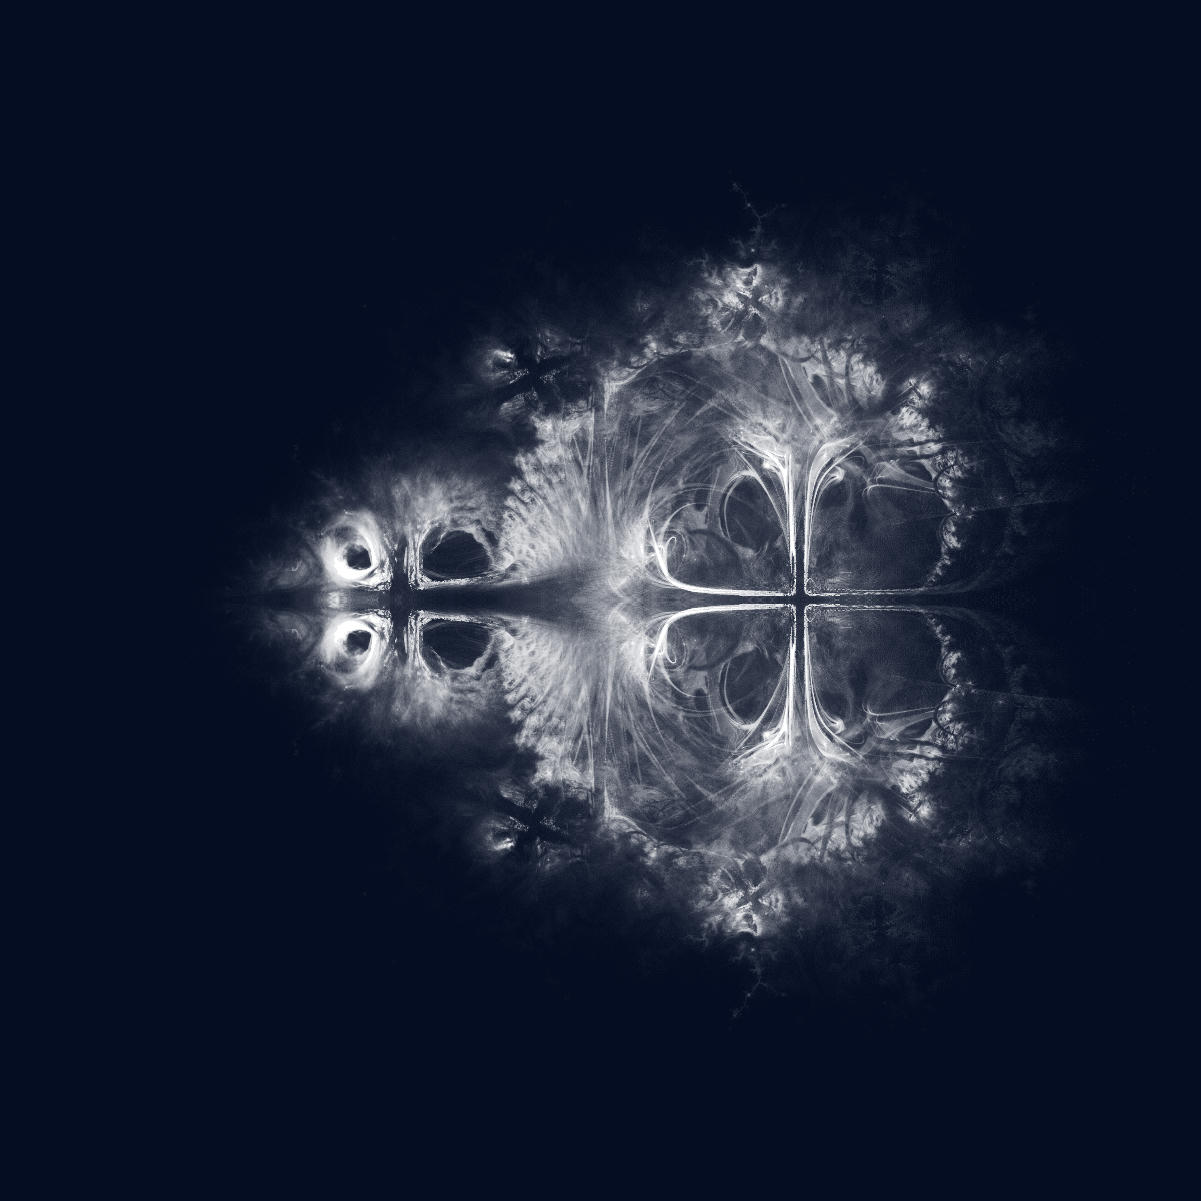
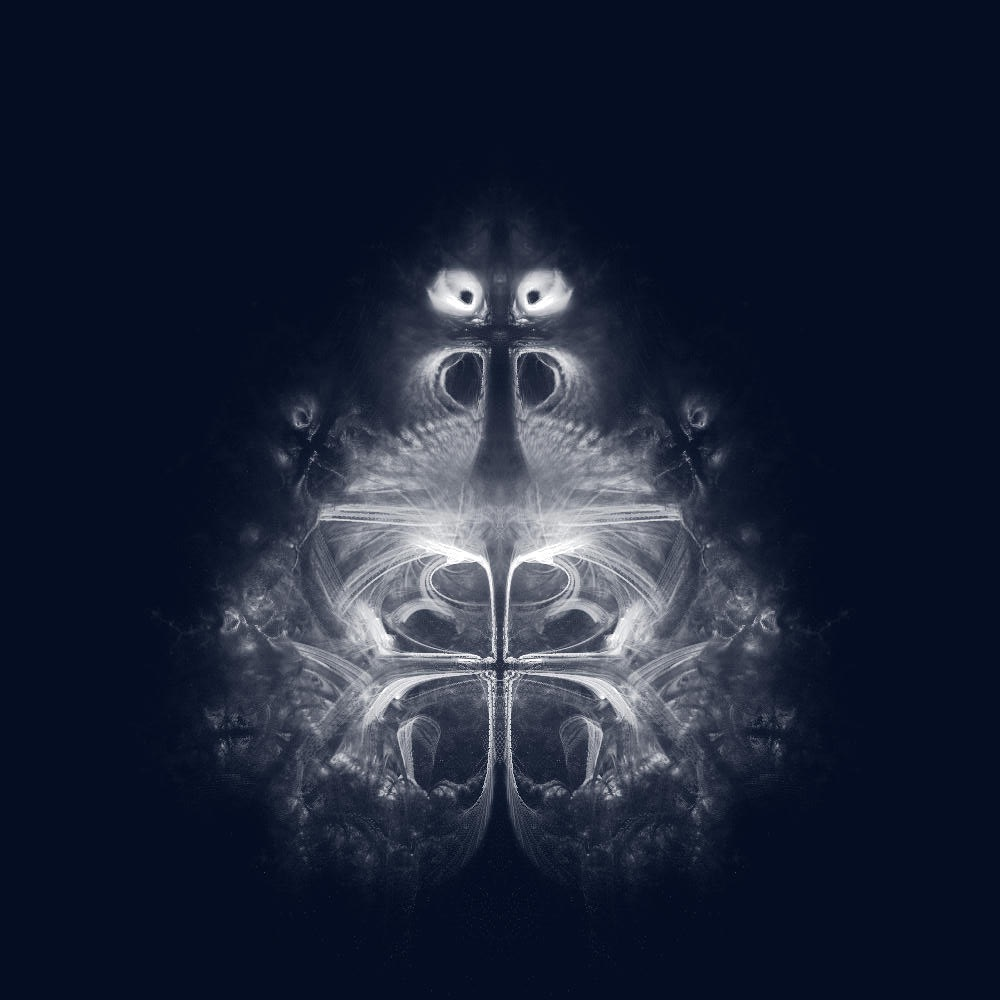
update images and readme

Changed region(s): [[0.186, 0.186, 0.868, 0.868], [0.837, 0.62, 0.868, 0.651], [0.837, 0.341, 0.868, 0.372]]

diff --git a/fractal_lukas/src/main.rs b/fractal_lukas/src/main.rs
@@ -4,7 +4,7 @@ use rusty_fractals::fractal::FractalMath;
 use rusty_fractals::fractal::OrbitType::Infinite;
 use rusty_fractals::mem::Mem;
 use rusty_fractals::palettes::PaletteName;
-use rusty_fractals::resolution_multiplier::ResolutionMultiplier::Single;
+use rusty_fractals::resolution_multiplier::ResolutionMultiplier::Square3;
 use rusty_fractals::{application, mathematician};
 
 struct Lukas {}
@@ -24,19 +24,19 @@ fn main() {
     let fractal_config = NebulaImage {
         name: "Lukas",
         iteration_min: 42,
-        iteration_max: 80000,
-        resolution_multiplier: Single,
+        iteration_max: 8000,
+        resolution_multiplier: Square3,
         palette: BlueToWhiteCircleUp,
 
-        width_x: 400,
-        height_y: 400,
-        width_re: 4.0,
-        center_re: 0.0,
+        width_x: 1000,
+        height_y: 1000,
+        width_re: 3.0,
+        center_re: -0.5,
         center_im: 0.0,
         orbits: Infinite,
     };
 
-    mathematician::init_primes(fractal_config.iteration_max);
+    mathematician::init_happy(fractal_config.iteration_max);
     application::execute(fractal_config.init(), Lukas {});
 }
 

diff --git a/MIGRATION.md b/MIGRATION.md
@@ -1,20 +1,14 @@
 ## Migration from Java to Rust
 
-fractal_collatz_conjecture -  
-fractal_collatz_conjecture_orbits -  
-fractal_collatz_mandelbrot -  
-fractal_euler -   
-fractal_fat_star -  
-fractal_fat_star_magnific -  
-fractal_fat_star_tentacle -  
-**fractal_head - [README.md](fractal_head/README.md)**  
-fractal_infinity -  
-fractal_infinity_top -  
-fractal_infinity_perfection -   
-**fractal_lotus - [README.md](fractal_lotus/README.md)**  
-**fractal_mandelbrot - [README.md](fractal_mandelbrot/README.md)**  
-**fractal_mandelbrot_of_mandelbrot - [README.md](fractal_mandelbrot_of_mandelbrot/README.md)**  
-**fractal_nebula - [README.md](fractal_nebula/README.md)**  
-**fractal_nebula_of_nebula - [README.md](fractal_nebula_of_nebula/README.md)**  
-fractal_nebula_side -  
-fractal_nebula_top -  
+fractal_collatz_conjecture  
+fractal_collatz_conjecture_orbits  
+fractal_collatz_mandelbrot  
+fractal_euler   
+fractal_fat_star  
+fractal_fat_star_magnific  
+fractal_fat_star_tentacle  
+fractal_infinity  
+fractal_infinity_top  
+fractal_infinity_perfection   
+fractal_nebula_side  
+fractal_nebula_top  

diff --git a/README.md b/README.md
@@ -42,6 +42,17 @@ and wouldn't add any points to displayed image.
 
 All the interesting points (origins) which seeded a successful calculation path are at the horizon of Mandelbrot set.
 
+## Fractal projects
+
+Head [README.md](fractal_head/README.md)  
+Euler [README.md](fractal_euler/README.md)  
+Lukas [README.md](fractal_lukas/README.md)  
+Lotus [README.md](fractal_lotus/README.md)  
+Mandelbrot [README.md](fractal_mandelbrot/README.md)    
+Mandelbrot of Mandelbrot [README.md](fractal_mandelbrot_of_mandelbrot/README.md)  
+Nebula [README.md](fractal_nebula/README.md)  
+Nebula of Nebula [README.md](fractal_nebula_of_nebula/README.md)
+
 ## Classic image of Mandelbrot set
 
 Count how many iteration it took, for the calculation to diverge.
@@ -81,6 +92,8 @@ Path elements `re im` which move out of the image boundary are removed.
 ```
 git clone https://github.com/halzade/rusty_fractals.git
 ```
+
+see [DEV.md](DEV.md) for issues.
 
 ## How to use
 

diff --git a/fractal_euler/README.md b/fractal_euler/README.md
@@ -2,4 +2,7 @@
 
 ### The image generated
 
-![Euler](euler_bw.jpg)
+![Euler](euler_bw.jpg)  
+![Euler](euler.jpg)  
+
+[Back](../README.md)

diff --git a/fractal_mandelbrot_of_mandelbrot/README.md b/fractal_mandelbrot_of_mandelbrot/README.md
@@ -3,3 +3,5 @@
 ### The image generated
 
 ![Mandelbrot of Mandelbrot](mandelbrot_of_mandelbrot.jpg)
+
+[Back](../README.md)

diff --git a/fractal_nebula_of_nebula/README.md b/fractal_nebula_of_nebula/README.md
@@ -3,3 +3,5 @@
 ### The image generated
 
 ![Nebula of Nebula](nebula_of_nebula.jpg)
+
+[Back](../README.md)

diff --git a/DEV.md b/DEV.md
@@ -2,3 +2,6 @@
 export FLTK_OPTIONS="--disable-screencapture"
 cargo update
 ```
+
+[Back](README.md)
+

diff --git a/fractal_mandelbrot/README.md b/fractal_mandelbrot/README.md
@@ -3,3 +3,5 @@
 ### The image generated
 
 ![Mandelbrot](mandelbrot.jpg)
+
+[Back](../README.md)

diff --git a/fractal_nebula/README.md b/fractal_nebula/README.md
@@ -3,3 +3,5 @@
 ### The image generated
 
 ![Nebula](nebula.jpg)
+
+[Back](../README.md)

diff --git a/fractal_lotus/README.md b/fractal_lotus/README.md
@@ -3,3 +3,5 @@
 ### The image generated
 
 ![Lotus](lotus.jpg)
+
+[Back](../README.md)

diff --git a/fractal_lukas/README.md b/fractal_lukas/README.md
@@ -3,3 +3,5 @@
 ### The image generated
 
 ![Lukas](lukas.jpg)
+
+[Back](../README.md)

diff --git a/fractal_head/README.md b/fractal_head/README.md
@@ -3,3 +3,5 @@
 ### The image generated
 
 ![Head](head.jpg)
+
+[Back](../README.md)
